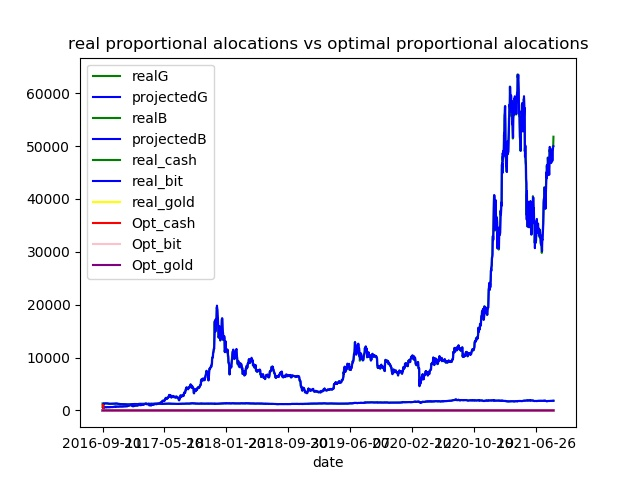
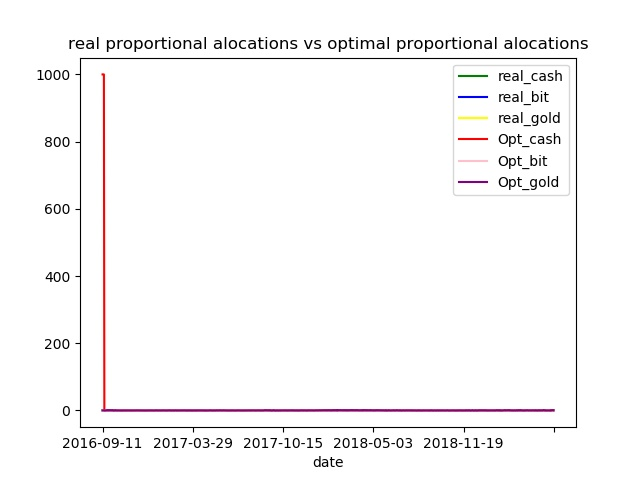
final

diff --git a/day.py b/day.py
@@ -6,11 +6,11 @@ from optimalPortfolio import Portfolio
 from projReturn import ProjReturn
 
 #how many does should it run for: should be no more than # of rows - 3
-length = 1822
+length = 1000
 
 proportionalAlocations = {"date": [], "real_cash": [1, 1, 1, 1], "real_bit": [0, 0, 0, 0], "real_gold": [0, 0, 0, 0]}
 alocations = [[1000, 0, 0], [1000, 0, 0], [1000, 0, 0], [1000, 0, 0]]
-totalCapital = [1000.00, 1000.00, 1000.00, 1000.00, 1000.00]
+totalCapital = [1000.00, 1000.00, 1000.00]
 dailyReturns = {"date":[], "returns": [0, 0, 0, 0]}
 
 dailyOptimalAlo = {"Opt_cash": [1000, 1000, 1000, 1000], "Opt_bit": [0, 0, 0, 0], "Opt_gold": [0, 0, 0, 0]}

diff --git a/projReturn.py b/projReturn.py
@@ -13,7 +13,7 @@ class ProjReturn():
     averageTomorrowPrice = 0
     
 
-    def __init__(self,sigma=0.0, mu=0.0, price = 0.0, k = 100):
+    def __init__(self,sigma=0.0, mu=0.0, price = 0.0, k = 20):
         self.sigma = sigma
         self.mu = mu
         sumReturns = 0

diff --git a/optimalPortfolio.py b/optimalPortfolio.py
@@ -17,7 +17,7 @@ from projReturn import ProjReturn
 
 
 # of simulation runs
-num_runs = 100
+num_runs = 20
 
 class Portfolio():
 
